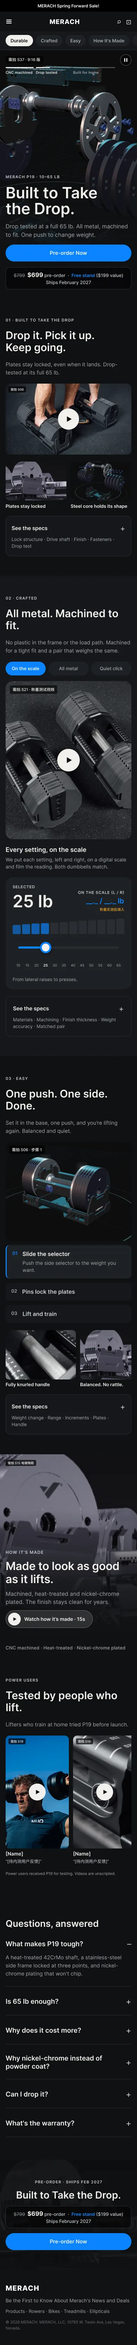
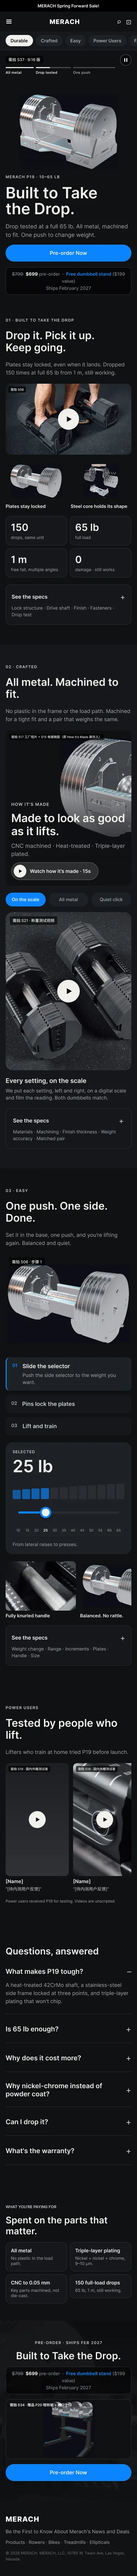
Explore V7 restructure (11/24): How It's Made merged into Crafted, slider to Easy (readout hidden), drop stats row, value strip + P20 gift in pre-order band, hero chapter labels, silver 3D render placeholders, Power Users by China-based foreign testers pre-sale
Claude-Session: https://claude.ai/code/session_01RNRjNYdB2DmXKuzbHkJAw4

diff --git a/imc.html b/imc.html
@@ -238,10 +238,10 @@ inches”，铸铁底座与燕尾槽配重片。</li>
 <h2 id="四营销节奏表">四、营销节奏表</h2>
 <p>横向为时间（2026 年 11 月至 2028 年 1 月，每月分上下半月），纵向分 Burst 与 Always-on，并标出每段的主攻人群与 O5A 漏斗重点。预售期以覆盖为主、转化率不追高；到季节高峰与到货开售时再拉高转化。A4 之前靠品牌广告与达人种草，A4 及之后靠搜索与效果广告：</p>
 <div class="tw"><table><thead><tr class="header"><th>O5A 阶段</th><th>衡量指标</th><th>手段</th></tr></thead><tbody><tr><td>A1 Aware（触达）</td><td>触达人数、千次曝光成本</td><td><b>品牌广告 + 达人种草</b></td></tr><tr><td>A2 Appeal（互动）</td><td>互动率、视频完播率</td><td><b>品牌广告 + 达人种草</b></td></tr><tr><td>A3 Ask（加购）</td><td>加购率（预售期约 1%，过程指标）</td><td><b>品牌广告 + 达人种草</b>，教育页与产品页承接</td></tr><tr><td>A4 Act（购买）</td><td>订单、转化率（预售期约 0.1–0.2%，开售后 ≥ 0.75%）</td><td><b>搜索 + 效果广告</b>（含再营销）</td></tr><tr><td>A5 Advocate（复购）</td><td>复购率、LTV、cross-sell（哑铃架、微调片、配件）</td><td><b>搜索 + 效果广告</b>、EDM、用户运营</td></tr></tbody></table></div>
-<div class="legend"><span><i style="background:var(--hi)"></i>季节指数 ≥ 1.09</span><span><i style="background:var(--md)"></i>1.00–1.08</span><span><i style="background:var(--lo);border:1px solid var(--line)"></i>&lt; 1.00</span><span><i style="background:var(--burst)"></i>Burst 节点</span><span>每月分上下半月两格；表格可左右滑动</span></div><div class="tw"><table class="cal"><colgroup><col class="lab"><col><col><col><col><col><col><col><col><col><col><col><col><col><col><col><col><col><col><col><col><col><col><col><col><col><col><col><col><col><col></colgroup><tbody><tr><th class="rl">月份</th><th colspan="2">2026-11</th><th colspan="2">2026-12</th><th colspan="2">2027-01</th><th colspan="2">2027-02</th><th colspan="2">2027-03</th><th colspan="2">2027-04</th><th colspan="2">2027-05</th><th colspan="2">2027-06</th><th colspan="2">2027-07</th><th colspan="2">2027-08</th><th colspan="2">2027-09</th><th colspan="2">2027-10</th><th colspan="2">2027-11</th><th colspan="2">2027-12</th><th colspan="2">2028-01</th></tr><tr><td class="rl">美国季节指数<br><span style="font-weight:400;color:var(--muted)">月均 = 1.00</span></td><td colspan="2" class="si hi">1.09</td><td colspan="2" class="si hi">1.15</td><td colspan="2" class="si hi">1.20</td><td colspan="2" class="si md">1.05</td><td colspan="2" class="si lo">0.99</td><td colspan="2" class="si lo">0.94</td><td colspan="2" class="si lo">0.91</td><td colspan="2" class="si md">1.01</td><td colspan="2" class="si md">1.04</td><td colspan="2" class="si lo">0.95</td><td colspan="2" class="si lo">0.84</td><td colspan="2" class="si lo">0.83</td><td colspan="2" class="si hi">1.09</td><td colspan="2" class="si hi">1.15</td><td colspan="2" class="si hi">1.20</td></tr><tr><td class="rl">阶段 / Campaign</td><td class="seg c0" colspan="2">准备期：自制素材、预售页、寄样</td><td class="seg c1" colspan="5"><b>C1 Drop It</b>｜全款预售（12 月内开启 – 2/14）：最低成本覆盖目标人群一次</td><td class="seg c2" colspan="3"><b>C2 Home Gym</b>｜2/15 到货开售：卖到首销目标</td><td class="seg ao" colspan="5">Always-on 培育：评价、UGC、用户运营</td><td class="seg c3" colspan="3"><b>C3 Prime Day</b>｜夏季次高峰</td><td class="seg ao" colspan="4">Always-on：淡季控预算、测试素材</td><td class="seg c3" colspan="2"><b>C3 Fall Prime</b>｜BFCM 预热</td><td class="seg c4" colspan="6"><b>C4 BFCM 2027</b>｜全年最高峰，延续至新年健身季</td></tr><tr class="grp"><td class="rl">人群与 O5A 漏斗</td><td colspan="30" style="background:var(--th)"></td></tr><tr><td class="rl">主攻人群</td><td class="e"></td><td class="e"></td><td class="seg c1" colspan="5">P1a（约 1,000 万户）为主；MERACH 老用户（$199 Home Gym 客群）</td><td class="seg c2" colspan="3">P1a + P1b（Drop Set）</td><td class="seg ao" colspan="5">P4 女性与入门、P3 城市小户型</td><td class="seg c3" colspan="3">P1a + P3（Amazon 搜索）</td><td class="seg ao" colspan="6">P1a 再触达、P5 Bowflex 替换</td><td class="seg c4" colspan="6">全部人群 + 礼品购买者</td></tr><tr><td class="rl">O5A 重点</td><td class="e"></td><td class="e"></td><td class="seg c1" colspan="5"><b>A1 触达</b>：Reach ≥ 1,000 万人、频次 1–2；A2 互动率；A3 加购率约 1%；A4 预售转化率约 0.1–0.2%，用于测算。手段以品牌广告 + 达人种草为主</td><td class="seg c2" colspan="3"><b>A4 购买</b>：转化率 ≥ 0.75%；搜索 + 效果广告，再营销预售期访客与加购未付款用户</td><td class="seg ao" colspan="5"><b>A5 复购</b>：哑铃架、微调片 cross-sell，提升 LTV；A1 品牌广告维持低成本触达</td><td class="seg c3" colspan="3"><b>A4 购买</b>：搜索 + 效果广告；A5 套装 cross-sell</td><td class="seg ao" colspan="4">A1–A3：品牌广告 + 达人种草，为 Q4 蓄水</td><td class="seg c3" colspan="2">A3 → A4</td><td class="seg c4" colspan="6"><b>A4 购买</b>：全年最高转化；A5 复购与 cross-sell</td></tr><tr class="grp"><td class="rl">Burst</td><td colspan="30" style="background:var(--th)"></td></tr><tr><td class="rl">Burst · 美国</td><td class="e"></td><td class="e"></td><td class="seg b" colspan="2">全款预售开启：$799→$699 + 赠 P20 哑铃架；Holiday</td><td class="seg b" colspan="2">New Year 健身季（1.20）</td><td class="seg b" colspan="2">2/15 到货发货 · Presidents’ Day · 测评集中上线</td><td class="e"></td><td class="e"></td><td class="e"></td><td class="e"></td><td class="seg b" colspan="2">Memorial Day</td><td class="seg b" colspan="2">Father’s Day · HomeGymCon（待确认）</td><td class="seg b" colspan="2">Prime Day</td><td class="e"></td><td class="e"></td><td class="seg b" colspan="2">Labor Day</td><td class="seg b" colspan="2">Prime Big Deal Days</td><td class="seg b" colspan="2">BFCM（11/26–29）</td><td class="seg b" colspan="2">Holiday 礼品</td><td class="seg b" colspan="2">New Year</td></tr><tr><td class="rl">Burst · 德国</td><td class="e"></td><td class="e"></td><td class="e"></td><td class="e"></td><td class="e"></td><td class="e"></td><td class="seg b" colspan="2">上市（日期待确认）</td><td class="e"></td><td class="e"></td><td class="seg b" colspan="2">FIBO（4/8–11）</td><td class="e"></td><td class="e"></td><td class="e"></td><td class="e"></td><td class="seg b" colspan="2">Prime Day</td><td class="e"></td><td class="e"></td><td class="e"></td><td class="e"></td><td class="e"></td><td class="e"></td><td class="seg b" colspan="2">Black Friday</td><td class="seg b" colspan="2">Weihnachten</td><td class="seg b" colspan="2">Neujahr（1.26）</td></tr><tr class="grp"><td class="rl">Always-on</td><td colspan="30" style="background:var(--th)"></td></tr><tr><td class="rl">内容素材</td><td class="seg c1" colspan="7"><b>自制素材为主</b>（用户尚未收货）：跌落测试、工厂短片、称重测试、3D 爆炸图、创始团队讲解；头部达人背书用自制素材撬动</td><td class="seg c2" colspan="3">红人测评与开箱集中上线；Power Users 视频</td><td class="seg ao" colspan="14">UGC 与红人常态内容；大促节点更新素材</td><td class="seg c4" colspan="6">礼品、套装与长期使用内容</td></tr><tr><td class="rl">付费媒体</td><td class="e"></td><td class="e"></td><td class="seg c1" colspan="5">Meta / TikTok / YouTube 以覆盖为目标（Reach、ThruPlay）；Google 品牌词；转化系列小预算测算</td><td class="seg c2" colspan="3">转化系列放量；再营销；Amazon 上架与广告</td><td class="seg ao" colspan="5">维持；按 ROAS 收缩</td><td class="seg c3" colspan="3">PD 加预算</td><td class="seg ao" colspan="4">淡季降预算</td><td class="seg c3" colspan="2">蓄水</td><td class="seg c4" colspan="6">全年最高预算</td></tr><tr><td class="rl">用户运营 / UGC / 评论区</td><td class="e"></td><td class="e"></td><td class="seg ao" colspan="28">贯穿全年：广告与红人内容评论区维护与答疑；Reddit r/homegym；Power Users 社群；收货后评价邀请与 UGC 征集（2/15 起）；差评 48 小时内响应</td></tr><tr><td class="rl">EDM</td><td class="e"></td><td class="seg c1" colspan="6"><b>老用户转化</b>：$199 Home Gym 客群教育序列（工艺、耐摔、称重）→ 预售优惠</td><td class="seg c2" colspan="3">发货通知、开箱与使用引导、评价邀请</td><td class="seg ao" colspan="14">复购与配件（微调片、哑铃架）；大促提醒</td><td class="seg c4" colspan="6">BFCM 与礼品序列</td></tr></tbody></table></div><p><strong>说明：</strong>覆盖 1,000 万人对应 P1a 约 1,000 万户的规模；预售期转化率 0.1–0.2%（或看过程指标：加购率约 1%）与开售后转化率 ≥ 0.75% 均为建议值，以 C1 实测数据校准（美国 DTC 测算表按 0.75% 计）。Prime Day、Prime Big Deal Days 与 HomeGymCon 日期以官方公布为准。</p>
+<div class="legend"><span><i style="background:var(--hi)"></i>季节指数 ≥ 1.09</span><span><i style="background:var(--md)"></i>1.00–1.08</span><span><i style="background:var(--lo);border:1px solid var(--line)"></i>&lt; 1.00</span><span><i style="background:var(--burst)"></i>Burst 节点</span><span>每月分上下半月两格；表格可左右滑动</span></div><div class="tw"><table class="cal"><colgroup><col class="lab"><col><col><col><col><col><col><col><col><col><col><col><col><col><col><col><col><col><col><col><col><col><col><col><col><col><col><col><col><col><col></colgroup><tbody><tr><th class="rl">月份</th><th colspan="2">2026-11</th><th colspan="2">2026-12</th><th colspan="2">2027-01</th><th colspan="2">2027-02</th><th colspan="2">2027-03</th><th colspan="2">2027-04</th><th colspan="2">2027-05</th><th colspan="2">2027-06</th><th colspan="2">2027-07</th><th colspan="2">2027-08</th><th colspan="2">2027-09</th><th colspan="2">2027-10</th><th colspan="2">2027-11</th><th colspan="2">2027-12</th><th colspan="2">2028-01</th></tr><tr><td class="rl">美国季节指数<br><span style="font-weight:400;color:var(--muted)">月均 = 1.00</span></td><td colspan="2" class="si hi">1.09</td><td colspan="2" class="si hi">1.15</td><td colspan="2" class="si hi">1.20</td><td colspan="2" class="si md">1.05</td><td colspan="2" class="si lo">0.99</td><td colspan="2" class="si lo">0.94</td><td colspan="2" class="si lo">0.91</td><td colspan="2" class="si md">1.01</td><td colspan="2" class="si md">1.04</td><td colspan="2" class="si lo">0.95</td><td colspan="2" class="si lo">0.84</td><td colspan="2" class="si lo">0.83</td><td colspan="2" class="si hi">1.09</td><td colspan="2" class="si hi">1.15</td><td colspan="2" class="si hi">1.20</td></tr><tr><td class="rl">阶段 / Campaign</td><td class="seg c0" colspan="2">准备期：自制素材、预售页、寄样</td><td class="seg c1" colspan="5"><b>C1 Drop It</b>｜全款预售（12 月内开启 – 2/14）：最低成本覆盖目标人群一次</td><td class="seg c2" colspan="3"><b>C2 Home Gym</b>｜2/15 到货开售：卖到首销目标</td><td class="seg ao" colspan="5">Always-on 培育：评价、UGC、用户运营</td><td class="seg c3" colspan="3"><b>C3 Prime Day</b>｜夏季次高峰</td><td class="seg ao" colspan="4">Always-on：淡季控预算、测试素材</td><td class="seg c3" colspan="2"><b>C3 Fall Prime</b>｜BFCM 预热</td><td class="seg c4" colspan="6"><b>C4 BFCM 2027</b>｜全年最高峰，延续至新年健身季</td></tr><tr class="grp"><td class="rl">人群与 O5A 漏斗</td><td colspan="30" style="background:var(--th)"></td></tr><tr><td class="rl">主攻人群</td><td class="e"></td><td class="e"></td><td class="seg c1" colspan="5">P1a（约 1,000 万户）为主；MERACH 老用户（$199 Home Gym 客群）</td><td class="seg c2" colspan="3">P1a + P1b（Drop Set）</td><td class="seg ao" colspan="5">P4 女性与入门、P3 城市小户型</td><td class="seg c3" colspan="3">P1a + P3（Amazon 搜索）</td><td class="seg ao" colspan="6">P1a 再触达、P5 Bowflex 替换</td><td class="seg c4" colspan="6">全部人群 + 礼品购买者</td></tr><tr><td class="rl">O5A 重点</td><td class="e"></td><td class="e"></td><td class="seg c1" colspan="5"><b>A1 触达</b>：Reach ≥ 1,000 万人、频次 1–2；A2 互动率；A3 加购率约 1%；A4 预售转化率约 0.1–0.2%，用于测算。手段以品牌广告 + 达人种草为主</td><td class="seg c2" colspan="3"><b>A4 购买</b>：转化率 ≥ 0.75%；搜索 + 效果广告，再营销预售期访客与加购未付款用户</td><td class="seg ao" colspan="5"><b>A5 复购</b>：哑铃架、微调片 cross-sell，提升 LTV；A1 品牌广告维持低成本触达</td><td class="seg c3" colspan="3"><b>A4 购买</b>：搜索 + 效果广告；A5 套装 cross-sell</td><td class="seg ao" colspan="4">A1–A3：品牌广告 + 达人种草，为 Q4 蓄水</td><td class="seg c3" colspan="2">A3 → A4</td><td class="seg c4" colspan="6"><b>A4 购买</b>：全年最高转化；A5 复购与 cross-sell</td></tr><tr class="grp"><td class="rl">Burst</td><td colspan="30" style="background:var(--th)"></td></tr><tr><td class="rl">Burst · 美国</td><td class="e"></td><td class="e"></td><td class="seg b" colspan="2">全款预售开启：$799→$699 + 赠 P20 哑铃架；Holiday</td><td class="seg b" colspan="2">New Year 健身季（1.20）</td><td class="seg b" colspan="2">2/15 到货发货 · Presidents’ Day · 测评集中上线</td><td class="e"></td><td class="e"></td><td class="e"></td><td class="e"></td><td class="seg b" colspan="2">Memorial Day</td><td class="seg b" colspan="2">Father’s Day · HomeGymCon（待确认）</td><td class="seg b" colspan="2">Prime Day</td><td class="e"></td><td class="e"></td><td class="seg b" colspan="2">Labor Day</td><td class="seg b" colspan="2">Prime Big Deal Days</td><td class="seg b" colspan="2">BFCM（11/26–29）</td><td class="seg b" colspan="2">Holiday 礼品</td><td class="seg b" colspan="2">New Year</td></tr><tr><td class="rl">Burst · 德国</td><td class="e"></td><td class="e"></td><td class="e"></td><td class="e"></td><td class="e"></td><td class="e"></td><td class="seg b" colspan="2">上市（日期待确认）</td><td class="e"></td><td class="e"></td><td class="seg b" colspan="2">FIBO（4/8–11）</td><td class="e"></td><td class="e"></td><td class="e"></td><td class="e"></td><td class="seg b" colspan="2">Prime Day</td><td class="e"></td><td class="e"></td><td class="e"></td><td class="e"></td><td class="e"></td><td class="e"></td><td class="seg b" colspan="2">Black Friday</td><td class="seg b" colspan="2">Weihnachten</td><td class="seg b" colspan="2">Neujahr（1.26）</td></tr><tr class="grp"><td class="rl">Always-on</td><td colspan="30" style="background:var(--th)"></td></tr><tr><td class="rl">内容素材</td><td class="seg c1" colspan="7"><b>自制素材为主</b>（用户尚未收货）：跌落测试、工厂短片、称重测试、3D 爆炸图、创始团队讲解、国内外籍测试者 Power Users 证言；头部达人背书用自制素材撬动</td><td class="seg c2" colspan="3">红人测评与开箱集中上线；Power Users 视频</td><td class="seg ao" colspan="14">UGC 与红人常态内容；大促节点更新素材</td><td class="seg c4" colspan="6">礼品、套装与长期使用内容</td></tr><tr><td class="rl">付费媒体</td><td class="e"></td><td class="e"></td><td class="seg c1" colspan="5">Meta / TikTok / YouTube 以覆盖为目标（Reach、ThruPlay）；Google 品牌词；转化系列小预算测算</td><td class="seg c2" colspan="3">转化系列放量；再营销；Amazon 上架与广告</td><td class="seg ao" colspan="5">维持；按 ROAS 收缩</td><td class="seg c3" colspan="3">PD 加预算</td><td class="seg ao" colspan="4">淡季降预算</td><td class="seg c3" colspan="2">蓄水</td><td class="seg c4" colspan="6">全年最高预算</td></tr><tr><td class="rl">用户运营 / UGC / 评论区</td><td class="e"></td><td class="e"></td><td class="seg ao" colspan="28">贯穿全年：广告与红人内容评论区维护与答疑；Reddit r/homegym；Power Users 社群；收货后评价邀请与 UGC 征集（2/15 起）；差评 48 小时内响应</td></tr><tr><td class="rl">EDM</td><td class="e"></td><td class="seg c1" colspan="6"><b>老用户转化</b>：$199 Home Gym 客群教育序列（工艺、耐摔、称重）→ 预售优惠</td><td class="seg c2" colspan="3">发货通知、开箱与使用引导、评价邀请</td><td class="seg ao" colspan="14">复购与配件（微调片、哑铃架）；大促提醒</td><td class="seg c4" colspan="6">BFCM 与礼品序列</td></tr></tbody></table></div><p><strong>说明：</strong>覆盖 1,000 万人对应 P1a 约 1,000 万户的规模；预售期转化率 0.1–0.2%（或看过程指标：加购率约 1%）与开售后转化率 ≥ 0.75% 均为建议值，以 C1 实测数据校准（美国 DTC 测算表按 0.75% 计）。Prime Day、Prime Big Deal Days 与 HomeGymCon 日期以官方公布为准。</p>
 <h2 id="五media-plan">五、Media Plan</h2>
 <p>所有渠道按“覆盖 → 信任 → 转化 → 沉淀”分工，红人按四层列入同一张表。<strong>重点是用户运营</strong>：UGC 培养与评论区维护贯穿全年，和 Always-on 联动；<strong>EDM 重点是 MERACH 老用户</strong>（已购约 $199 Home Gym 产品的客群）的教育与转化。</p>
-<div class="tw"><table><thead><tr class="header"><th>渠道</th><th>漏斗位置</th><th>重点</th><th>美国（对象 / 打法）</th><th>德国</th><th>主要时段</th><th>衡量指标</th></tr></thead><tbody><tr><td>红人 · T1 P1a 画像红人</td><td>信任</td><td>主信任来源，讲清耐摔、质感、顺手三支柱。筛选标准：优先综合健身与居家生活方式类，避开以大重量力量训练为主的博主（65 lb 上限在其测评中易被判为“不够用”）</td><td>Garage Gym / Home Gym 测评与居家健身空间博主（GGR、BarBend、Garage Gym Lab、YouTube 长测评、Instagram 空间类账号）；寄样 + 内容费，测评站走联盟佣金，优质内容做 Partnership Ads</td><td>德语垂类测评博主</td><td>准备期寄样，2/15 后集中上线</td><td>内容 UV、内容转化率、单条成本</td></tr><tr><td>红人 · T2 生活切面红人</td><td>覆盖（破圈）</td><td>拓宽流量，触达不看健身内容的 P1a</td><td>汽车、DIY 与车库改造、户外、父亲与家庭生活类大号；超大体量如 YouTube 约千万订阅的 Jesse（具体账号待确认）；植入或定制内容</td><td>—</td><td>C1 预售期为主</td><td>Reach、千次曝光成本、UV</td></tr><tr><td>红人 · T3 头部背书</td><td>信任</td><td>用自制素材（跌落测试、工厂短片）撬动头部红人、教练或运动员转发、反应视频或短背书</td><td>素材授权 + 背书费；Whitelisting 投放</td><td>—</td><td>C1 后半段至 C2</td><td>背书条数、投放 ROAS</td></tr><tr><td>红人 · T4 Power Users 与腰尾部</td><td>沉淀</td><td>真实使用证言与 UGC 来源</td><td>内测用户、腰尾部训练博主；赠品或小额费用；FTC 披露</td><td>德语腰尾部博主</td><td>2/15 后全年</td><td>UGC 数、证言条数</td></tr><tr><td>付费社媒（Meta / TikTok / YouTube）</td><td>覆盖 → 转化</td><td>C1 以覆盖为目标（Reach、ThruPlay），低成本触达 1,000 万人；C2 起转化系列与再营销放量</td><td>三支柱素材分组测试</td><td>Meta</td><td>全年，C1 / C2 / C4 加预算</td><td>Reach、千次曝光成本、CTR、CPA、ROAS</td></tr><tr><td><b>用户运营 / UGC / 评论区</b></td><td>沉淀（重点）</td><td>广告与红人内容评论区答疑与引导；Power Users 社群；收货后评价邀请与 UGC 征集；差评 48 小时内响应；与 Always-on 内容联动</td><td>Reddit 以 r/homegym 等泛健身社区为主，r/GarageGym 偏力量训练，只做答疑与观点收集；品牌方参与讨论须在资料或回复中注明“I work at MERACH”（FTC 与社区规则）；Facebook 家用健身群组</td><td>德语论坛与群组</td><td>全年</td><td>评价数与评分、UGC 数、评论区情感</td></tr><tr><td><b>EDM</b></td><td>转化（老用户）</td><td>已购约 $199 Home Gym 产品的老用户：工艺、耐摔、称重教育序列 → 预售优惠；收货后使用引导与评价；复购配件与套装</td><td>Klaviyo 分群序列</td><td>德语邮件</td><td>准备期起全年</td><td>打开率、点击率、邮件成交、老用户成交占比</td></tr><tr><td>搜索与电商</td><td>转化</td><td>拦截主动需求；Amazon 2/15 上架</td><td>Google Search / Shopping、Amazon Ads；品类词与 bowflex alternative 等（文案不点名竞品）</td><td>Amazon.de Ads</td><td>全年</td><td>CVR、ACoS</td></tr><tr><td>PR 与测评媒体</td><td>信任</td><td>开售当周测评集中上线；新闻稿</td><td>GGR、BarBend；英文新闻稿</td><td>测评比价站、德文新闻稿</td><td>C2</td><td>报道数、测评评分</td></tr><tr><td>联盟</td><td>转化</td><td>占位“best adjustable dumbbells”类搜索结果</td><td>测评站联盟</td><td>德语测评站</td><td>2/15 后全年</td><td>联盟成交</td></tr><tr><td>Event</td><td>信任</td><td>上手体验与行业曝光</td><td>HomeGymCon（待确认）</td><td>FIBO 2027（4/8–11）</td><td>6 月 / 4 月</td><td>体验人数、留资</td></tr></tbody></table></div>
+<div class="tw"><table><thead><tr class="header"><th>渠道</th><th>漏斗位置</th><th>重点</th><th>美国（对象 / 打法）</th><th>德国</th><th>主要时段</th><th>衡量指标</th></tr></thead><tbody><tr><td>红人 · T1 P1a 画像红人</td><td>信任</td><td>主信任来源，讲清耐摔、质感、顺手三支柱。筛选标准：优先综合健身与居家生活方式类，避开以大重量力量训练为主的博主（65 lb 上限在其测评中易被判为“不够用”）</td><td>Garage Gym / Home Gym 测评与居家健身空间博主（GGR、BarBend、Garage Gym Lab、YouTube 长测评、Instagram 空间类账号）；寄样 + 内容费，测评站走联盟佣金，优质内容做 Partnership Ads</td><td>德语垂类测评博主</td><td>准备期寄样，2/15 后集中上线</td><td>内容 UV、内容转化率、单条成本</td></tr><tr><td>红人 · T2 生活切面红人</td><td>覆盖（破圈）</td><td>拓宽流量，触达不看健身内容的 P1a</td><td>汽车、DIY 与车库改造、户外、父亲与家庭生活类大号；超大体量如 YouTube 约千万订阅的 Jesse（具体账号待确认）；植入或定制内容</td><td>—</td><td>C1 预售期为主</td><td>Reach、千次曝光成本、UV</td></tr><tr><td>红人 · T3 头部背书</td><td>信任</td><td>用自制素材（跌落测试、工厂短片）撬动头部红人、教练或运动员转发、反应视频或短背书</td><td>素材授权 + 背书费；Whitelisting 投放</td><td>—</td><td>C1 后半段至 C2</td><td>背书条数、投放 ROAS</td></tr><tr><td>红人 · T4 Power Users 与腰尾部</td><td>沉淀</td><td>真实使用证言与 UGC 来源</td><td>Power Users：在国内招募外籍测试者，预售前寄样试用并拍竖版证言，用于教育页与预售广告；收货后扩展到腰尾部训练博主；赠品或小额费用；FTC 披露</td><td>德语腰尾部博主</td><td>预售前（测试者）；2/15 后全年（腰尾部）</td><td>UGC 数、证言条数</td></tr><tr><td>付费社媒（Meta / TikTok / YouTube）</td><td>覆盖 → 转化</td><td>C1 以覆盖为目标（Reach、ThruPlay），低成本触达 1,000 万人；C2 起转化系列与再营销放量</td><td>三支柱素材分组测试</td><td>Meta</td><td>全年，C1 / C2 / C4 加预算</td><td>Reach、千次曝光成本、CTR、CPA、ROAS</td></tr><tr><td><b>用户运营 / UGC / 评论区</b></td><td>沉淀（重点）</td><td>广告与红人内容评论区答疑与引导；Power Users 社群；收货后评价邀请与 UGC 征集；差评 48 小时内响应；与 Always-on 内容联动</td><td>Reddit 以 r/homegym 等泛健身社区为主，r/GarageGym 偏力量训练，只做答疑与观点收集；品牌方参与讨论须在资料或回复中注明“I work at MERACH”（FTC 与社区规则）；Facebook 家用健身群组</td><td>德语论坛与群组</td><td>全年</td><td>评价数与评分、UGC 数、评论区情感</td></tr><tr><td><b>EDM</b></td><td>转化（老用户）</td><td>已购约 $199 Home Gym 产品的老用户：工艺、耐摔、称重教育序列 → 预售优惠；收货后使用引导与评价；复购配件与套装</td><td>Klaviyo 分群序列</td><td>德语邮件</td><td>准备期起全年</td><td>打开率、点击率、邮件成交、老用户成交占比</td></tr><tr><td>搜索与电商</td><td>转化</td><td>拦截主动需求；Amazon 2/15 上架</td><td>Google Search / Shopping、Amazon Ads；品类词与 bowflex alternative 等（文案不点名竞品）</td><td>Amazon.de Ads</td><td>全年</td><td>CVR、ACoS</td></tr><tr><td>PR 与测评媒体</td><td>信任</td><td>开售当周测评集中上线；新闻稿</td><td>GGR、BarBend；英文新闻稿</td><td>测评比价站、德文新闻稿</td><td>C2</td><td>报道数、测评评分</td></tr><tr><td>联盟</td><td>转化</td><td>占位“best adjustable dumbbells”类搜索结果</td><td>测评站联盟</td><td>德语测评站</td><td>2/15 后全年</td><td>联盟成交</td></tr><tr><td>Event</td><td>信任</td><td>上手体验与行业曝光</td><td>HomeGymCon（待确认）</td><td>FIBO 2027（4/8–11）</td><td>6 月 / 4 月</td><td>体验人数、留资</td></tr></tbody></table></div>
 <p>按 Earn / Paid / Own 归类：红人与测评建立信任（Earn），付费社媒与搜索放大（Paid），教育页、EDM、评论区与社群沉淀用户（Own）；独立站与 Amazon 承接成交。</p>
 <h2 id="六campaign-playbook">六、Campaign Playbook</h2>
 <p>每个 Campaign 一个主目标；未达成时先纠偏，再进入下一阶段放量。</p>

diff --git a/handoff.html b/handoff.html
@@ -48,7 +48,7 @@ blockquote{margin:12px 0;padding:8px 14px;border-left:3px solid var(--accent);ba
 <li>英文主张 Built to Take the Drop 已确定；页面按“主张 → 三支柱”组织。</li></ul>
 <h2>二、屏占比</h2>
 <p>首屏全屏：Header + Hero 合计正好 1 屏（PC 1440×900、Mobile 390×844）。Header 含支柱导航，支柱导航吸顶。Crafted 承载画廊与滑块，允许约 1.5 屏；Easy 已压缩到约 1.3 屏（细节图与 Drop Set 卡同排）。</p>
-<div class="tw"><table><thead><tr><th>模块</th><th>锚点</th><th>PC 高度 px</th><th>PC 屏占比</th><th>Mobile 高度 px</th><th>Mobile 屏占比</th></tr></thead><tbody><tr><td>Header（广告位 + 导航 + 支柱导航，吸顶）</td><td>—</td><td>165</td><td>0.18</td><td>142</td><td>0.17</td></tr><tr><td>Screen 1 · Hero（全屏）</td><td>#top</td><td>735</td><td>0.82（与 Header 合计 1.00）</td><td>702</td><td>0.83（与 Header 合计 1.00）</td></tr><tr><td>Screen 2 · Durable（耐摔）</td><td>#durable</td><td>945</td><td>1.05</td><td>788</td><td>0.93</td></tr><tr><td>Screen 3 · Crafted（质感）</td><td>#crafted</td><td>1372</td><td>1.52</td><td>1361</td><td>1.61</td></tr><tr><td>Screen 4 · Easy（顺手）</td><td>#easy</td><td>1146</td><td>1.27</td><td>1128</td><td>1.34</td></tr><tr><td>Screen 5 · How It’s Made（工艺与质感）</td><td>#made</td><td>715</td><td>0.79</td><td>577</td><td>0.68</td></tr><tr><td>Screen 6 · Power Users</td><td>#power-users</td><td>862</td><td>0.96</td><td>673</td><td>0.80</td></tr><tr><td>Screen 7 · FAQ</td><td>#faq</td><td>838</td><td>0.93</td><td>749</td><td>0.89</td></tr><tr><td>Pre-order（原 Waitlist）</td><td>#preorder</td><td>420</td><td>0.47</td><td>312</td><td>0.37</td></tr><tr><td>Footer</td><td>—</td><td>260</td><td>0.29</td><td>213</td><td>0.25</td></tr><tr><td><b>合计</b></td><td></td><td><b>7458</b></td><td><b>8.29 屏</b></td><td><b>6645</b></td><td><b>7.87 屏</b></td></tr></tbody></table></div>
+<div class="tw"><table><thead><tr><th>模块</th><th>锚点</th><th>PC 高度 px</th><th>PC 屏占比</th><th>Mobile 高度 px</th><th>Mobile 屏占比</th></tr></thead><tbody><tr><td>Header（广告位 + 导航 + 支柱导航，吸顶）</td><td>—</td><td>165</td><td>0.18</td><td>142</td><td>0.17</td></tr><tr><td>Screen 1 · Hero（全屏）</td><td>#top</td><td>735</td><td>0.82（与 Header 合计 1.00）</td><td>702</td><td>0.83（与 Header 合计 1.00）</td></tr><tr><td>Screen 2 · Durable（耐摔，含实测数字条）</td><td>#durable</td><td>1125</td><td>1.25</td><td>982</td><td>1.16</td></tr><tr><td>Screen 3 · Crafted（质感，含影片卡）</td><td>#crafted</td><td>1451</td><td>1.61</td><td>1484</td><td>1.76</td></tr><tr><td>Screen 4 · Easy（顺手，含重量滑块）</td><td>#easy</td><td>1540</td><td>1.71</td><td>1465</td><td>1.74</td></tr><tr><td>Screen 5 · Power Users（国内外籍测试者）</td><td>#power-users</td><td>862</td><td>0.96</td><td>673</td><td>0.80</td></tr><tr><td>Screen 6 · FAQ</td><td>#faq</td><td>838</td><td>0.93</td><td>749</td><td>0.89</td></tr><tr><td>What you’re paying for（价格理由）</td><td>#value</td><td>350</td><td>0.39</td><td>377</td><td>0.45</td></tr><tr><td>Pre-order（含 P20 赠品图）</td><td>#preorder</td><td>660</td><td>0.73</td><td>511</td><td>0.61</td></tr><tr><td>Footer</td><td>—</td><td>260</td><td>0.29</td><td>213</td><td>0.25</td></tr><tr><td><b>合计</b></td><td></td><td><b>7986</b></td><td><b>8.87 屏</b></td><td><b>7298</b></td><td><b>8.65 屏</b></td></tr></tbody></table></div>
 <h2>三、全局规范</h2>
 <h3>颜色</h3><div class="tw"><table><thead><tr><th>用途</th><th>色值</th><th>使用位置</th></tr></thead><tbody><tr><td>页面底</td><td>#0F1012</td><td>Hero、Durable、Crafted、FAQ</td></tr><tr><td>区块底</td><td>#16181B</td><td>支柱导航、规格抽屉、Easy</td></tr><tr><td>卡片</td><td>#1E2125</td><td>证据卡、滑块面板、画廊当前标签</td></tr><tr><td>分隔线</td><td>#2A2E33</td><td>卡片描边、三栏分隔</td></tr><tr><td>主文字</td><td>#F1F0EC</td><td>标题、强调</td></tr><tr><td>辅助文字</td><td>#A3A7AD</td><td>正文、说明</td></tr><tr><td>钢灰</td><td>#C7CCD2</td><td>Eyebrow、图形线条</td></tr><tr><td>主色</td><td>#0A84FF</td><td>按钮、滑块、当前标签与配重片高亮</td></tr><tr><td>待确认标记</td><td>#F5A524</td><td>仅设计稿使用，上线前删除</td></tr></tbody></table></div>
 <h3>字号</h3><p>设计稿字体为 Inter；如独立站已有品牌字体，以站内字体为准，字号与字重按下表。</p><div class="tw"><table><thead><tr><th>层级</th><th>PC</th><th>Mobile</th></tr></thead><tbody><tr><td>H1</td><td>72 / Semi Bold，行高 102%</td><td>44 / Semi Bold</td></tr><tr><td>H2</td><td>46 / Semi Bold</td><td>30 / Semi Bold</td></tr><tr><td>Eyebrow</td><td>12 / Semi Bold，全大写，字距 14%</td><td>11 / Semi Bold</td></tr><tr><td>正文</td><td>18 / Regular，行高 155%</td><td>15 / Regular</td></tr><tr><td>卡片标题</td><td>17 / Semi Bold</td><td>14 / Semi Bold</td></tr><tr><td>说明</td><td>14 / Regular</td><td>12–13 / Regular</td></tr><tr><td>按钮</td><td>15 / Semi Bold，高 52，全圆角</td><td>同 PC，通栏</td></tr></tbody></table></div>
@@ -56,19 +56,20 @@ blockquote{margin:12px 0;padding:8px 14px;border-left:3px solid var(--accent);ba
 <h2>四、部件说明</h2>
 <div class="tw"><table><thead><tr><th>部件</th><th>位置</th><th>PC</th><th>Mobile</th><th>交互与状态</th></tr></thead><tbody><tr><td>顶部广告位 / 导航栏</td><td>全站</td><td>复用现有 Header</td><td>复用移动端 Header</td><td>随页面滚走</td></tr><tr><td>支柱导航</td><td>Header 下方</td><td>高 64，6 个锚点 + “$699 pre-order · Free stand” + Pre-order Now</td><td>高 53，横滑胶囊</td><td>吸顶（sticky）、滚动高亮、平滑滚动</td></tr><tr><td>Hero（全屏视频）</td><td>Screen 1</td><td>高 = 100vh − Header；16:9 视频铺满（object-fit: cover），左侧渐变，文案垂直居中；右下章节进度 + 暂停按钮</td><td>高 = 100vh − Header；9:16 视频铺满，底部渐变，文案压在底部；顶部章节进度 + 暂停按钮</td><td>Pre-order Now + 一行优惠条</td></tr><tr><td>视频位 + 弹窗</td><td>Screen 2、3、5、6</td><td>16:9；竖版 224×398</td><td>全屏弹窗</td><td>点击播放，关闭停止</td></tr><tr><td>证据卡</td><td>Screen 2</td><td>右侧两张产品图卡</td><td>两列</td><td>静态</td></tr><tr><td>质感画廊（Crafted Proof Gallery）</td><td>Screen 3</td><td>左大图 788×500 + 右侧 3 张标签卡</td><td>标签 + 大图 358×448 + 说明</td><td>点击切换；Mobile 可左右滑动</td></tr><tr><td>拖拽重量滑块（Weight Drag Slider）</td><td>Screen 3</td><td>宽 1200；大数字 + 左 / 右实测读数 + 12 段配重片 + 滑轨 + 刻度</td><td>宽 358，同结构</td><td>拖拽 / 点击刻度，吸附 5 lb</td></tr><tr><td>See the specs（规格抽屉）</td><td>Screen 2、3、4</td><td>收起时显示规格项目名；展开为三列表格</td><td>展开为纵向堆叠</td><td>点击展开 / 收起</td></tr><tr><td>步骤演示</td><td>Screen 4</td><td>主图 640×420 + 右侧 3 步</td><td>主图 358×280 + 纵向 3 步</td><td>点击切换；Mobile 可滑动</td></tr><tr><td>细节卡 + Drop Set 卡</td><td>Screen 4</td><td>四卡同排：3 张产品图 282×140 + 1 张 Drop Set 文字卡</td><td>同一行横滑 200×162 ×4</td><td>静态；Drop Set 注释必须保留</td></tr><tr><td>通栏电镀微距 + 播放胶囊</td><td>Screen 5</td><td>通栏大图 1440×640，左侧渐变，标题与副标压在左下；播放胶囊 Watch how it’s made · 15s；图下一行工艺说明</td><td>通栏 390×520，底部渐变压字，同样的播放胶囊</td><td>点击胶囊弹窗播放工厂短片</td></tr><tr><td>内测用户视频卡</td><td>Screen 6</td><td>5 张 9:16 卡片</td><td>横滑 4 张</td><td>点击竖版弹窗播放；FTC 披露</td></tr><tr><td>FAQ</td><td>Screen 7</td><td>宽 1200</td><td>通栏</td><td>手风琴；FAQPage 结构化数据</td></tr><tr><td>预售条（原 Waitlist）</td><td>页尾</td><td>标题 + 优惠条 + 按钮，居中</td><td>同 PC，按钮通栏，优惠条两行</td><td>点击跳转产品页</td></tr><tr><td>优惠条</td><td>Hero、页尾</td><td>一行胶囊：原价划线、预售价加粗、赠品蓝色</td><td>两行</td><td>静态；价格与赠品待整合营销确认</td></tr><tr><td>Footer</td><td>全站</td><td>复用</td><td>复用</td><td>不新开发</td></tr></tbody></table></div>
 <h2>五、交互清单</h2>
-<div class="tw"><table><thead><tr><th>元素</th><th>交互</th></tr></thead><tbody><tr><td>Pre-order Now（首屏、吸顶导航、页尾预售条）</td><td>悬停变色；点击跳转 P19 产品页（链接待定）</td></tr><tr><td>优惠条</td><td>静态一行：$799 划线 → $699 预售价 · 赠 P20 哑铃架（价值 $199）· 2027 年 2 月到货即发（预览，价格与赠品以整合营销方案为准）</td></tr><tr><td>支柱导航（吸顶）</td><td>position: sticky; top: 0，滚动后一直置顶；当前所在屏高亮；点击平滑滚动。锚点：Durable / Crafted / Easy / How It’s Made / Power Users / FAQ</td></tr><tr><td>首屏视频</td><td>自动静音循环播放，未加载时显示首帧；右下章节进度（CNC machined / Drop tested / Built for home）与暂停按钮；系统开启“减少动态效果”时只显示首帧</td></tr><tr><td>视频播放按钮</td><td>点击弹窗播放：跌落测试、称重测试、工厂短片、内测用户竖版视频；Mobile 为全屏</td></tr><tr><td>精度画廊</td><td>PC：点击右侧三张标签卡切换左侧大图；Mobile：点击标签或左右滑动切换；称重卡带播放按钮</td></tr><tr><td>拖拽重量滑块</td><td>默认停在 25 lb，提示“From lateral raises to presses”；拖动把手或点击刻度，10–65 lb 每 5 lb 一档，吸附到档位；大数字、配重片高亮、左 / 右实测读数同步变化（实测值称重后填入）</td></tr><tr><td>See the specs</td><td>点击展开 / 收起；展开为“规格 / 参数 / 对用户意味着什么”，PC 三列表格，Mobile 纵向堆叠；三屏各 5 行</td></tr><tr><td>Easy 步骤</td><td>PC 点击 01 / 02 / 03 切换主图；Mobile 点击步骤或左右滑动图片切换</td></tr><tr><td>FAQ 手风琴</td><td>6 条（第 2 条为 Is 65 lb enough?）；默认展开第 1 条，同时只展开 1 条</td></tr></tbody></table></div>
+<div class="tw"><table><thead><tr><th>元素</th><th>交互</th></tr></thead><tbody><tr><td>Pre-order Now（首屏、吸顶导航、页尾预售条）</td><td>悬停变色；点击跳转 P19 产品页（链接待定）</td></tr><tr><td>优惠条</td><td>静态一行：$799 划线 → $699 预售价 · 赠 P20 哑铃架（价值 $199）· 2027 年 2 月到货即发（预览，价格与赠品以整合营销方案为准）</td></tr><tr><td>支柱导航（吸顶）</td><td>position: sticky; top: 0，滚动后一直置顶；当前所在屏高亮；点击平滑滚动。锚点：Durable / Crafted / Easy / Power Users / FAQ</td></tr><tr><td>首屏视频</td><td>自动静音循环播放，未加载时显示首帧；右下章节进度（All metal / Drop tested / One push，对应 CNC 精加工 / 跌落测试 / 居家训练三段）与暂停按钮；系统开启“减少动态效果”时只显示首帧</td></tr><tr><td>视频播放按钮</td><td>点击弹窗播放：跌落测试、称重测试、工厂短片、内测用户竖版视频；Mobile 为全屏</td></tr><tr><td>质感画廊</td><td>PC：点击右侧三张标签卡切换左侧大图；Mobile：点击标签或左右滑动切换；称重卡带播放按钮</td></tr><tr><td>拖拽重量滑块</td><td>默认停在 25 lb，提示“From lateral raises to presses”；拖动把手或点击刻度，10–65 lb 每 5 lb 一档，吸附到档位；大数字与配重片高亮同步变化；位于 Easy 屏（11/24 由 Crafted 移入），左 / 右实测读数在称重数据确认前隐藏</td></tr><tr><td>See the specs</td><td>点击展开 / 收起；展开为“规格 / 参数 / 对用户意味着什么”，PC 三列表格，Mobile 纵向堆叠；三屏各 5 行</td></tr><tr><td>Easy 步骤</td><td>PC 点击 01 / 02 / 03 切换主图；Mobile 点击步骤或左右滑动图片切换</td></tr><tr><td>FAQ 手风琴</td><td>6 条（第 2 条为 Is 65 lb enough?）；默认展开第 1 条，同时只展开 1 条</td></tr></tbody></table></div>
 <p>所有组件的状态（悬停、展开、切换、表单流程）已在 Figma 组件区全部展开，可直接在原型中点击体验：</p>
 <img src="assets/explore-v5-components.webp" alt="Explore V7 交互组件与状态" loading="lazy">
 <h2>六、图片与视频位</h2>
 <p>请按下表尺寸出 2 倍图，格式 WebP；视频提供 MP4（H.264）与封面图。当前全部为占位图，上线前替换为实拍。</p>
-<div class="tw"><table><thead><tr><th>图位（拍摄编号）</th><th>PC 尺寸</th><th>Mobile 尺寸</th><th>说明</th></tr></thead><tbody><tr><td>首屏视频（S37）</td><td>1920×1080 MP4，15 秒，静音循环，≤ 4 MB，另出首帧 JPG</td><td>1080×1920 MP4（9:16 版），≤ 3 MB，另出首帧</td><td>三段：CNC 精加工 → 满载跌落测试 → 居家训练；video 标签 autoplay muted loop playsinline，带 poster</td></tr><tr><td>跌落测试（S06）</td><td>792×446 + MP4</td><td>358×201</td><td>正式跌落测试视频</td></tr><tr><td>称重测试（S21）</td><td>788×500 + MP4</td><td>358×448</td><td>各档上秤，读数特写</td></tr><tr><td>全金属 BOM 图（S07）</td><td>788×500</td><td>358×448</td><td>爆炸图标注各部件材料（11/23 替换原天平 S22）</td></tr><tr><td>插销微距（S23）</td><td>788×500 + MP4</td><td>358×448</td><td>插销慢动作，同期收音</td></tr><tr><td>证据卡（S07、S15）</td><td>384×140</td><td>173×110</td><td>爆炸图；电镀表面</td></tr><tr><td>步骤（S03–S05）</td><td>640×420 ×3</td><td>358×280 ×3</td><td>建议静音循环短视频</td></tr><tr><td>细节（S14、S15）</td><td>282×140 ×3</td><td>200×140 ×3</td><td>握把、圆形配重、档位</td></tr><tr><td>电镀微距（S15）</td><td>1440×640（通栏，深色背景、侧光）</td><td>390×520</td><td>How It’s Made 质感大图，镍铬电镀与滚花特写</td></tr><tr><td>工厂短片（S17）</td><td>弹窗播放 MP4（16:9）</td><td>358×201</td><td>15 秒：机加工、热处理、电镀</td></tr><tr><td>内测用户（S19）</td><td>224×398 封面 + 9:16 MP4 ×5</td><td>180×320 ×4</td><td>由内测用户提供</td></tr><tr><td>预售条背景</td><td>1440×420</td><td>390×312</td><td>文字区压暗</td></tr></tbody></table></div>
+<div class="tw"><table><thead><tr><th>图位（拍摄编号）</th><th>PC 尺寸</th><th>Mobile 尺寸</th><th>说明</th></tr></thead><tbody><tr><td>首屏视频（S37）</td><td>1920×1080 MP4，15 秒，静音循环，≤ 4 MB，另出首帧 JPG</td><td>1080×1920 MP4（9:16 版），≤ 3 MB，另出首帧</td><td>三段：CNC 精加工 → 满载跌落测试 → 居家训练；video 标签 autoplay muted loop playsinline，带 poster</td></tr><tr><td>跌落测试（S06）</td><td>792×446 + MP4</td><td>358×201</td><td>正式跌落测试视频</td></tr><tr><td>称重测试（S21）</td><td>788×500 + MP4</td><td>358×448</td><td>各档上秤，读数特写</td></tr><tr><td>全金属 BOM 图（S07）</td><td>788×500</td><td>358×448</td><td>爆炸图标注各部件材料（11/23 替换原天平 S22）</td></tr><tr><td>插销微距（S23）</td><td>788×500 + MP4</td><td>358×448</td><td>插销慢动作，同期收音</td></tr><tr><td>证据卡（S07、S15）</td><td>384×140</td><td>173×110</td><td>爆炸图；电镀表面</td></tr><tr><td>步骤（S03–S05）</td><td>640×420 ×3</td><td>358×280 ×3</td><td>建议静音循环短视频</td></tr><tr><td>细节（S14、S15）</td><td>282×140 ×3</td><td>200×140 ×3</td><td>握把、圆形配重、档位</td></tr><tr><td>Crafted 影片卡（S17 + S15）</td><td>1200×420 封面 + 弹窗 MP4（16:9）</td><td>358×440 封面</td><td>原 How It’s Made：电镀微距封面，点开 15 秒工厂短片（机加工、热处理、电镀）</td></tr><tr><td>P20 赠品图（S34）</td><td>520×220</td><td>358×170</td><td>P20 哑铃架 + 两只 P19，亮银配黑</td></tr><tr><td>内测用户（S19）</td><td>224×398 封面 + 9:16 MP4 ×5</td><td>180×320 ×4</td><td>国内外籍测试者预售前拍摄</td></tr><tr><td>预售条背景</td><td>1440×420</td><td>390×312</td><td>文字区压暗</td></tr></tbody></table></div>
 <h2>七、待确认</h2>
-<ul><li>重量精度 ±1.5%：待工厂确认实测数据，未确认前 Screen 3 规格抽屉与 FAQ 相关内容不得上线。</li>
+<ul><li>重量精度 ±1.5%：待工厂确认实测数据，未确认前 Crafted 规格抽屉中的相关行不得上线。</li>
+<li>产品图：当前为 CMF V3.0 亮银 3D 渲染占位，实拍到位后替换。</li>
 <li>跌落测试：已有结果（11/23），65 lb 满载、多角度，橡胶地面 1 米自由落体 150 次，已写入 Screen 2、规格抽屉与 FAQ；书面报告与视频待出。</li>
 <li>质保：已确定为正常使用终身质保（11/23），FAQ 已补入。</li>
 <li>产品页链接、预售价（$699）、赠品（P20 哑铃架，价值 $199）与发货时间：以整合营销方案为准，当前为预览。</li>
-<li>Power Users 视频：内测用户提供后替换第 6 屏占位，需肖像与内容授权、FTC 披露。</li>
-<li>拖拽滑块的实测数值（每档左 / 右两只）：称重测试完成后填入。</li>
+<li>Power Users 视频：国内外籍测试者预售前拍摄后替换第 5 屏占位，需肖像与内容授权、FTC 披露（Received P19 for testing）。</li>
+<li>拖拽滑块（Easy 屏）的左 / 右实测读数：当前隐藏，称重测试完成后再显示。</li>
 <li>规格抽屉中橙色方括号内容：微调片售价、重量精度 ±1.5% 与配对检验流程，确认后替换。</li></ul>
 <h2>八、标注稿</h2>
 <p>红色虚线为每屏底线，黄色卡片为每屏的屏占比、部件与交互说明。</p>

diff --git a/explore.html b/explore.html
@@ -39,12 +39,13 @@ blockquote{margin:12px 0;padding:8px 14px;border-left:3px solid var(--accent);ba
 @media (max-width:900px){.shell{grid-template-columns:1fr}.toc{display:none}main{padding:24px 18px}}
 </style></head><body>
 <header class="top"><div class="in"><b>MERACH P19</b><a href="index.html" class="">总览</a><a href="product.html" class="">产品营销方案</a><a href="imc.html" class="">整合营销方案</a><a href="comp/" class="">对标竞品参数页</a><a href="explore.html" class="on">Explore 教育页</a><a href="handoff.html" class="">开发需求</a><a href="market.html" class="">市场容量</a></div></header>
-<div class="shell one"><main><h1>Explore 教育页 · V7（11/18 二轮）</h1><p class="meta">深石墨、可交互。图片左上角标注需拍编号，上线前全部替换；Power Users 视频由内测用户提供后放入第 6 屏。</p>
+<div class="shell one"><main><h1>Explore 教育页 · V7（11/18 二轮）</h1><p class="meta">深石墨、可交互。图片左上角标注需拍编号，上线前全部替换；Power Users 视频由国内外籍测试者在预售前拍摄，放入第 5 屏。</p>
 <p>设计稿：<a href="https://www.figma.com/design/44z4t0SOMdf8TVVw1gtSZz/%E6%97%A0%E6%B0%A7P19?node-id=68-608" target="_blank" rel="noopener">Figma PC</a> · <a href="https://www.figma.com/design/44z4t0SOMdf8TVVw1gtSZz/%E6%97%A0%E6%B0%A7P19?node-id=70-679" target="_blank" rel="noopener">Figma Mobile</a>　可点击原型：<a href="https://www.figma.com/proto/44z4t0SOMdf8TVVw1gtSZz/%E6%97%A0%E6%B0%A7P19?node-id=68-608&amp;starting-point-node-id=68%3A608" target="_blank" rel="noopener">PC 原型</a> · <a href="https://www.figma.com/proto/44z4t0SOMdf8TVVw1gtSZz/%E6%97%A0%E6%B0%A7P19?node-id=70-679&amp;starting-point-node-id=70%3A679" target="_blank" rel="noopener">Mobile 原型</a>　屏占比与部件说明见 <a href="handoff.html">开发需求</a>。</p>
 <h2>本版调整</h2>
 <ul>
 <li><b>11/20 依据 Reddit 讨论：</b>FAQ 新增 Is 65 lb enough?；重量滑块默认停在 25 lb，提示 From lateral raises to presses；Easy 副标以 Feels right in your hand 开头，细节卡讲顺手；How It’s Made 改为通栏电镀微距大图讲质感，工厂短片收进播放胶囊。</li>
 <li><b>按钮改为直接下单：</b>取消等待名单，所有按钮改为 Pre-order Now，点击跳转产品页；按钮下方一行优惠条：$799 划线 → $699 预售价 · 赠 P20 哑铃架（价值 $199）· 2027 年 2 月到货即发（预览，价格与赠品以整合营销方案为准）。</li>
+<li><b>11/24（结构）：</b>How It’s Made 并入 Crafted（工厂短片作为影片卡）；重量滑块移到 Easy，称重读数在数据确认前隐藏；Durable 加跌落实测数字条（150 次 / 65 lb / 1 m / 0 损坏）；FAQ 后新增 What you’re paying for；预售条加 P20 赠品图；首屏章节标签改为 All metal / Drop tested / One push；产品占位图按 CMF 换成亮银 3D 渲染；Power Users 改由国内外籍测试者预售前拍。PC 7,986 px（约 8.9 屏），Mobile 7,298 px（约 8.6 屏）。</li>
 <li><b>11/23（跌落与质保）：</b>Durable 正文、规格抽屉与 FAQ 改用实测数据：橡胶地面 1 米自由落体 150 次，整机完好、功能正常；质保 FAQ 去掉待定标注，为正常使用终身质保。</li>
 <li><b>11/23（尺寸与 CMF）：</b>Easy 规格抽屉新增 Size 行（提起后 332 mm / 13.1 in，底座 355 × 180 mm），Handle 补 Ø34 mm；规格抽屉镀层改为 Ni + Ni + Cr 三层电镀；产品图按 CMF V3.0 全身亮银出。原记录：Easy 规格抽屉新增 Size 行，Plates 补 Ø184 mm，Handle 补握长 125 mm、滚花 96.4 mm；平衡卡片文案改为“像传统圆哑铃一样重心居中”。</li>
 <li><b>11/23（策略）：</b>支柱改为 Durable · Crafted · Easy。Durable 先讲锁得住（卡片与规格抽屉锁固结构排第一）；原 Accurate 屏改为 Crafted，标题 All metal. Machined to fit.，画廊天平换为 BOM 图，规格抽屉新增材料行；Easy 增加“Balanced. No rattle.”；首屏副标改为 All metal, machined to fit.；FAQ“How precise is it?”改为“Why does it cost more?”。</li>
@@ -58,9 +59,9 @@ blockquote{margin:12px 0;padding:8px 14px;border-left:3px solid var(--accent);ba
 <li><b>删除 Your Space 屏；</b>Mobile 与 PC 交互一致（画廊、滑块、步骤、规格、表单均可点击）。</li>
 </ul>
 <h2>页面结构</h2>
-<div class="tw"><table><thead><tr><th>屏</th><th>模块</th><th>要点</th></tr></thead><tbody><tr><td>1</td><td>Hero（全屏视频）</td><td>15 秒静音循环视频（S37）：CNC 精加工 → 满载跌落测试 → 居家训练；Built to Take the Drop.；一个主按钮</td></tr><tr><td>—</td><td>支柱导航</td><td>吸顶；滚动高亮；点击平滑滚动</td></tr><tr><td>2</td><td>Durable · 耐摔</td><td>跌落测试视频 + 两张产品证据卡；See the specs（锁固结构、传动轴、表面、螺丝、跌落测试）</td></tr><tr><td>3</td><td>Crafted · 质感</td><td>大图画廊（称重 / 全金属 BOM 图 / 插销微距）+ 拖拽重量滑块；See the specs（材料、加工、镀层厚度、重量精度、配对）</td></tr><tr><td>4</td><td>Easy · 顺手</td><td>三步演示 + 握把 / 平衡不响 / 档位与 Drop Set 四卡同排（Mobile 横滑）；See the specs（换重方式、重量范围、档位、配重片、握把、尺寸）</td></tr><tr><td>5</td><td>How It’s Made · 工艺与质感</td><td>通栏电镀微距大图，标题 Made to look as good as it lifts. 压在图上；播放胶囊点开 15 秒工厂短片；图下一行工艺说明</td></tr><tr><td>6</td><td>Power Users · 内测用户</td><td>3–5 条竖版短视频，点击播放；FTC 披露</td></tr><tr><td>7</td><td>FAQ + 预售条</td><td>手风琴 6 条（含 Is 65 lb enough?）；页尾预售条（优惠条 + Pre-order Now）</td></tr></tbody></table></div>
+<div class="tw"><table><thead><tr><th>屏</th><th>模块</th><th>要点</th></tr></thead><tbody><tr><td>1</td><td>Hero（全屏视频）</td><td>15 秒静音循环视频（S37）：CNC 精加工 → 满载跌落测试 → 居家训练；Built to Take the Drop.；一个主按钮</td></tr><tr><td>—</td><td>支柱导航</td><td>吸顶；滚动高亮；点击平滑滚动</td></tr><tr><td>2</td><td>Durable · 耐摔</td><td>跌落测试视频 + 两张产品证据卡；See the specs（锁固结构、传动轴、表面、螺丝、跌落测试）</td></tr><tr><td>3</td><td>Crafted · 质感</td><td>大图画廊（称重 / 全金属 BOM 图 / 插销微距）+ 拖拽重量滑块；See the specs（材料、加工、镀层厚度、重量精度、配对）</td></tr><tr><td>4</td><td>Easy · 顺手</td><td>三步演示 + 握把 / 平衡不响 / 档位与 Drop Set 四卡同排（Mobile 横滑）；See the specs（换重方式、重量范围、档位、配重片、握把、尺寸）</td></tr><tr><td>5</td><td>Power Users · 国内外籍测试者</td><td>3–5 条竖版短视频（预售前拍），点击播放；FTC 披露</td></tr><tr><td>6</td><td>FAQ</td><td>手风琴 6 条（含 Is 65 lb enough?、Why does it cost more?）</td></tr><tr><td>7</td><td>What you’re paying for + 预售条</td><td>四点价格理由（All metal / Triple-layer plating / CNC 0.05 mm / 150 full-load drops）；页尾预售条（优惠条 + P20 赠品图 + Pre-order Now）</td></tr></tbody></table></div>
 <h2>交互清单</h2>
-<div class="tw"><table><thead><tr><th>元素</th><th>交互</th></tr></thead><tbody><tr><td>Pre-order Now（首屏、吸顶导航、页尾预售条）</td><td>悬停变色；点击跳转 P19 产品页（链接待定）</td></tr><tr><td>优惠条</td><td>静态一行：$799 划线 → $699 预售价 · 赠 P20 哑铃架（价值 $199）· 2027 年 2 月到货即发（预览，价格与赠品以整合营销方案为准）</td></tr><tr><td>支柱导航（吸顶）</td><td>position: sticky; top: 0，滚动后一直置顶；当前所在屏高亮；点击平滑滚动。锚点：Durable / Crafted / Easy / How It’s Made / Power Users / FAQ</td></tr><tr><td>首屏视频</td><td>自动静音循环播放，未加载时显示首帧；右下章节进度（CNC machined / Drop tested / Built for home）与暂停按钮；系统开启“减少动态效果”时只显示首帧</td></tr><tr><td>视频播放按钮</td><td>点击弹窗播放：跌落测试、称重测试、工厂短片、内测用户竖版视频；Mobile 为全屏</td></tr><tr><td>精度画廊</td><td>PC：点击右侧三张标签卡切换左侧大图；Mobile：点击标签或左右滑动切换；称重卡带播放按钮</td></tr><tr><td>拖拽重量滑块</td><td>默认停在 25 lb；拖动把手或点击刻度，10–65 lb 每 5 lb 一档，吸附到档位；大数字、配重片高亮、左 / 右实测读数同步变化（实测值称重后填入）</td></tr><tr><td>See the specs</td><td>点击展开 / 收起；展开为“规格 / 参数 / 对用户意味着什么”，PC 三列表格，Mobile 纵向堆叠；三屏各 5 行</td></tr><tr><td>Easy 步骤</td><td>PC 点击 01 / 02 / 03 切换主图；Mobile 点击步骤或左右滑动图片切换</td></tr><tr><td>FAQ 手风琴</td><td>6 条（第 2 条为 Is 65 lb enough?）；默认展开第 1 条，同时只展开 1 条</td></tr></tbody></table></div>
+<div class="tw"><table><thead><tr><th>元素</th><th>交互</th></tr></thead><tbody><tr><td>Pre-order Now（首屏、吸顶导航、页尾预售条）</td><td>悬停变色；点击跳转 P19 产品页（链接待定）</td></tr><tr><td>优惠条</td><td>静态一行：$799 划线 → $699 预售价 · 赠 P20 哑铃架（价值 $199）· 2027 年 2 月到货即发（预览，价格与赠品以整合营销方案为准）</td></tr><tr><td>支柱导航（吸顶）</td><td>position: sticky; top: 0，滚动后一直置顶；当前所在屏高亮；点击平滑滚动。锚点：Durable / Crafted / Easy / Power Users / FAQ</td></tr><tr><td>首屏视频</td><td>自动静音循环播放，未加载时显示首帧；右下章节进度（All metal / Drop tested / One push，对应 CNC 精加工 / 跌落测试 / 居家训练三段）与暂停按钮；系统开启“减少动态效果”时只显示首帧</td></tr><tr><td>视频播放按钮</td><td>点击弹窗播放：跌落测试、称重测试、工厂短片、内测用户竖版视频；Mobile 为全屏</td></tr><tr><td>质感画廊</td><td>PC：点击右侧三张标签卡切换左侧大图；Mobile：点击标签或左右滑动切换；称重卡带播放按钮</td></tr><tr><td>拖拽重量滑块</td><td>默认停在 25 lb；拖动把手或点击刻度，10–65 lb 每 5 lb 一档，吸附到档位；大数字与配重片高亮同步变化；位于 Easy 屏（11/24 由 Crafted 移入），左 / 右实测读数在称重数据确认前隐藏</td></tr><tr><td>See the specs</td><td>点击展开 / 收起；展开为“规格 / 参数 / 对用户意味着什么”，PC 三列表格，Mobile 纵向堆叠；三屏各 5 行</td></tr><tr><td>Easy 步骤</td><td>PC 点击 01 / 02 / 03 切换主图；Mobile 点击步骤或左右滑动图片切换</td></tr><tr><td>FAQ 手风琴</td><td>6 条（第 2 条为 Is 65 lb enough?）；默认展开第 1 条，同时只展开 1 条</td></tr></tbody></table></div>
 <p>所有组件状态已在 Figma 组件区展开：</p>
 <img src="assets/explore-v5-components.webp" alt="Explore 交互组件与状态" loading="lazy">
 <div style="display:grid;grid-template-columns:minmax(0,3fr) minmax(0,1fr);gap:24px;align-items:start">

diff --git a/product.html b/product.html
@@ -784,17 +784,17 @@ mm；工序为下料—开平—割板—粗车—CNC—精车—电镀—检验
 </tbody></table></div>
 <p>产品页与教育页的区别：教育页以视频和交互讲清楚“为什么”；产品页以静态信息图让用户几秒看懂卖点。教育页的视频不能直接当产品页主图，需从中取静帧或另出信息图。</p>
 <h2 id="六explore-教育页与拍摄清单">五、Explore 教育页与拍摄清单</h2>
-<p>Explore 教育页 V7（PC 与 Mobile）已在 <a href="https://www.figma.com/design/44z4t0SOMdf8TVVw1gtSZz/%E6%97%A0%E6%B0%A7P19?node-id=68-608">Figma「无氧P19」文件</a> 完成，并做成可点击原型（<a href="https://www.figma.com/proto/44z4t0SOMdf8TVVw1gtSZz/%E6%97%A0%E6%B0%A7P19?node-id=68-608&amp;starting-point-node-id=68%3A608">PC</a> / <a href="https://www.figma.com/proto/44z4t0SOMdf8TVVw1gtSZz/%E6%97%A0%E6%B0%A7P19?node-id=70-679&amp;starting-point-node-id=70%3A679">Mobile</a>），PC 与 Mobile 交互一致。11/18 二轮调整：首屏全屏，只留一个主按钮 Pre-order Now（跳转产品页），下方一行优惠条（$799→$699、赠 P20 哑铃架、2 月到货即发，预览，以整合营销方案为准）；支柱导航吸顶；高精度屏改为大图画廊加拖拽滑块；删除 Your Space 屏；三个 See the specs 展开为“规格 / 参数 / 对用户意味着什么”的详细说明；Easy 屏细节图与 Drop Set 并为一排。11/22：首屏改为 15 秒视频（CNC 精加工、跌落测试、居家训练）；Easy 屏与 Drop Set 卡文案更正为“放回底座、单手一推”。11/20：FAQ 新增 Is 65 lb enough?；重量滑块默认 25 lb；Easy 副标讲顺手；How It’s Made 改为通栏电镀微距大图讲质感，工厂短片收进播放胶囊。11/23：支柱改为 Durable · Crafted · Easy（原 Accurate 屏改为 Crafted，讲全金属与精加工，画廊中天平换为 BOM 图）；Durable 先讲锁得住；Easy 增加“平衡、不晃不响”；FAQ“How precise is it?”改为“Why does it cost more?”。PC 全长 7,479px（约 8.3 屏），Mobile 全长 6,645px（约 7.9 屏）。屏占比、部件与交互说明见“开发需求”页。</p>
+<p>Explore 教育页 V7（PC 与 Mobile）已在 <a href="https://www.figma.com/design/44z4t0SOMdf8TVVw1gtSZz/%E6%97%A0%E6%B0%A7P19?node-id=68-608">Figma「无氧P19」文件</a> 完成，并做成可点击原型（<a href="https://www.figma.com/proto/44z4t0SOMdf8TVVw1gtSZz/%E6%97%A0%E6%B0%A7P19?node-id=68-608&amp;starting-point-node-id=68%3A608">PC</a> / <a href="https://www.figma.com/proto/44z4t0SOMdf8TVVw1gtSZz/%E6%97%A0%E6%B0%A7P19?node-id=70-679&amp;starting-point-node-id=70%3A679">Mobile</a>），PC 与 Mobile 交互一致。11/18 二轮调整：首屏全屏，只留一个主按钮 Pre-order Now（跳转产品页），下方一行优惠条（$799→$699、赠 P20 哑铃架、2 月到货即发，预览，以整合营销方案为准）；支柱导航吸顶；高精度屏改为大图画廊加拖拽滑块；删除 Your Space 屏；三个 See the specs 展开为“规格 / 参数 / 对用户意味着什么”的详细说明；Easy 屏细节图与 Drop Set 并为一排。11/22：首屏改为 15 秒视频（CNC 精加工、跌落测试、居家训练）；Easy 屏与 Drop Set 卡文案更正为“放回底座、单手一推”。11/20：FAQ 新增 Is 65 lb enough?；重量滑块默认 25 lb；Easy 副标讲顺手；How It’s Made 改为通栏电镀微距大图讲质感，工厂短片收进播放胶囊。11/23：支柱改为 Durable · Crafted · Easy（原 Accurate 屏改为 Crafted，讲全金属与精加工，画廊中天平换为 BOM 图）；Durable 先讲锁得住；Easy 增加“平衡、不晃不响”；FAQ“How precise is it?”改为“Why does it cost more?”。11/24 结构调整：How It’s Made 并入 Crafted（工厂短片作为 Crafted 屏的影片卡）；重量滑块移到 Easy 屏，称重读数在数据出来前隐藏；Durable 加一排跌落实测数字；FAQ 后新增“What you’re paying for”价格理由条；预售条加 P20 赠品图；首屏视频章节标签改为 All metal / Drop tested / One push；产品占位图按 CMF 换成亮银 3D 渲染；Power Users 改由国内外籍测试者在预售前拍摄。PC 全长 7,986px（约 8.9 屏），Mobile 全长 7,298px（约 8.6 屏）。屏占比、部件与交互说明见“开发需求”页。</p>
 <div class="tw"><table>
 <thead><tr class="header"><th>屏</th><th>模块</th><th>图片 / 视频数</th><th>对应拍摄</th></tr></thead>
 <tbody>
-<tr><td>1</td><td>Hero（全屏 15 秒静音循环视频）：CNC 精加工 → 满载跌落测试 → 居家训练；Built to Take the Drop.；一个主按钮</td><td>1</td><td>S37（剪自 S17、S06、S18）</td></tr>
-<tr><td>2</td><td>Durable：跌落测试视频 + 两张产品证据卡（锁得住、热处理调节杆）+ See the specs（锁固结构排第一行）</td><td>3</td><td>S06、S09、S07</td></tr>
-<tr><td>3</td><td>Crafted（原 Accurate）：大图画廊（称重 / 全金属 BOM 图 / 插销微距，点击或滑动切换）+ 拖拽重量滑块 + See the specs（材料排第一行）</td><td>3</td><td>S21、S07、S23</td></tr>
-<tr><td>4</td><td>Easy：三步演示 + 握把 / 平衡不响 / 档位与 Drop Set（P1b）四卡同排 + See the specs</td><td>6</td><td>S03–S05、S38、S14、S15、S40</td></tr>
-<tr><td>5</td><td>How It’s Made（工艺与质感）：通栏电镀微距大图 + 播放胶囊（15 秒工厂短片）+ 一行工艺说明</td><td>2</td><td>S17、S15</td></tr>
-<tr><td>6</td><td>Power Users：内测用户竖版短视频 3–5 条</td><td>5</td><td>S19</td></tr>
-<tr><td>7</td><td>FAQ（6 条，含 Is 65 lb enough?、Why does it cost more?）+ 页尾预售条</td><td>—</td><td>—</td></tr>
+<tr><td>1</td><td>Hero（全屏 15 秒静音循环视频）：CNC 精加工 → 满载跌落测试 → 居家训练（章节标签 All metal / Drop tested / One push）；Built to Take the Drop.；一个主按钮 + 优惠条</td><td>1</td><td>S37（剪自 S17、S06、S18；第三段含单手换重）</td></tr>
+<tr><td>2</td><td>Durable：跌落测试视频 + 两张证据卡（锁得住、热处理调节杆）+ 实测数字条（150 次 / 65 lb / 1 m / 0 损坏）+ See the specs（锁固结构排第一行）</td><td>3</td><td>S06、S09、S07</td></tr>
+<tr><td>3</td><td>Crafted：影片卡（原 How It’s Made，15 秒工厂短片 + 电镀微距）+ 大图画廊（称重 / 全金属 BOM 图 / 插销微距）+ See the specs（材料排第一行）</td><td>4</td><td>S17、S15、S21、S07、S23</td></tr>
+<tr><td>4</td><td>Easy：三步演示 + 拖拽重量滑块（只显示档位，称重读数隐藏）+ 握把 / 平衡不响 / 档位与 Drop Set（P1b）四卡同排 + See the specs（含尺寸）</td><td>6</td><td>S03–S05、S38、S14、S15、S40</td></tr>
+<tr><td>5</td><td>Power Users：国内外籍测试者竖版短视频 3–5 条（预售前拍，标注测试者获赠产品）</td><td>5</td><td>S19</td></tr>
+<tr><td>6</td><td>FAQ（6 条，含 Is 65 lb enough?、Why does it cost more?）</td><td>—</td><td>—</td></tr>
+<tr><td>7</td><td>What you’re paying for：All metal / Triple-layer plating / CNC 0.05 mm / 150 full-load drops 四点 + 页尾预售条（优惠条 + P20 赠品图 + Pre-order Now）</td><td>1</td><td>S34</td></tr>
 </tbody>
 </table></div>
 <p><strong>拍摄与出图清单</strong></p>
@@ -816,11 +816,11 @@ mm；工序为下料—开平—割板—粗车—CNC—精车—电镀—检验
 <tr><td>S12</td><td>场景静帧 + 视频</td><td>单臂划船，卧推凳侧面机位</td><td>训练类社媒内容</td><td>P2</td><td>4 月前（Always-on）</td></tr>
 <tr><td>S13</td><td>场景静帧</td><td>三个使用场景：美国车库、城市公寓、德国地下室</td><td>产品页场景图、社媒（P1a / P3 / P2）</td><td>P1</td><td>2/15 前（到货开售前）</td></tr>
 <tr><td>S14</td><td>微距静帧</td><td>5 lb 档位刻度（2.5 lb 微调片后续单独购买，上市时补拍安装）</td><td>Explore Easy 档位卡、S28 信息图</td><td>P1</td><td>预售开启前</td></tr>
-<tr><td>S15</td><td>微距静帧</td><td>电镀表面与滚花握把特写</td><td>Explore How It’s Made 质感大图、Durable 证据卡与 Easy 握把卡、产品页、A+</td><td>P0</td><td>预售开启前</td></tr>
+<tr><td>S15</td><td>微距静帧</td><td>电镀表面与滚花握把特写</td><td>Explore Crafted 影片卡封面、Durable 证据卡与 Easy 握把卡、产品页、A+</td><td>P0</td><td>预售开启前</td></tr>
 <tr><td>S16</td><td>视频</td><td>开箱与安装、换重操作教程</td><td>Amazon、客服、收货后 EDM</td><td>P1</td><td>2/15 前（到货开售前）</td></tr>
-<tr><td>S17</td><td>视频</td><td>工厂 CNC 加工与热处理工序实拍，剪 15 秒版</td><td>Explore How It’s Made、预售广告、头部背书素材、Pitch Deck</td><td>P0</td><td>预售开启前</td></tr>
+<tr><td>S17</td><td>视频</td><td>工厂 CNC 加工与热处理工序实拍，剪 15 秒版</td><td>Explore Crafted 影片卡、首屏视频、预售广告、头部背书素材、Pitch Deck</td><td>P0</td><td>预售开启前</td></tr>
 <tr><td>S18</td><td>场景静帧 + 视频</td><td>P1a 居家健身空间：布置讲究的车库或空房间，P19 置于哑铃架，训练中放下哑铃的瞬间；突出镍铬电镀质感与空间氛围</td><td>Explore 首屏、主 KV、产品页场景图、预售广告</td><td>P0</td><td>预售开启前</td></tr>
-<tr><td>S19</td><td>竖版视频</td><td>内测用户（Power Users）使用短视频 3–5 条，9:16，15–30 秒，真实训练场景</td><td>Explore Power Users、产品页用户视频、社媒</td><td>P0</td><td>2/15 前（到货开售前）</td></tr>
+<tr><td>S19</td><td>竖版视频</td><td>Power Users：在国内招募外籍测试者（P1a 形象、有训练习惯），寄样试用后自拍短视频 3–5 条，9:16，15–30 秒，真实训练场景；签肖像与内容授权，视频标注 Received P19 for testing（FTC）</td><td>Explore Power Users、产品页用户视频、社媒</td><td>P0</td><td>预售开启前</td></tr>
 <tr><td>S20</td><td>静帧 + 360°</td><td>产品静物：居家空间中的 P19（哑铃架、自然光）；白底 360° 旋转</td><td>Explore 首屏、产品页、Amazon</td><td>P0</td><td>预售开启前</td></tr>
 <tr><td>S21</td><td>视频</td><td>称重测试：各档位上秤，读数特写，标称与实测并排</td><td>Explore Crafted 画廊、预售广告、测评</td><td>P0</td><td>预售开启前</td></tr>
 <tr><td>S22</td><td>静帧 / 视频</td><td>天平：两只同重量哑铃保持水平（11/23 起教育页画廊改用 S07 BOM 图，此项降为备用）</td><td>产品页备用、测评素材包</td><td>P2</td><td>预售开启前</td></tr>
